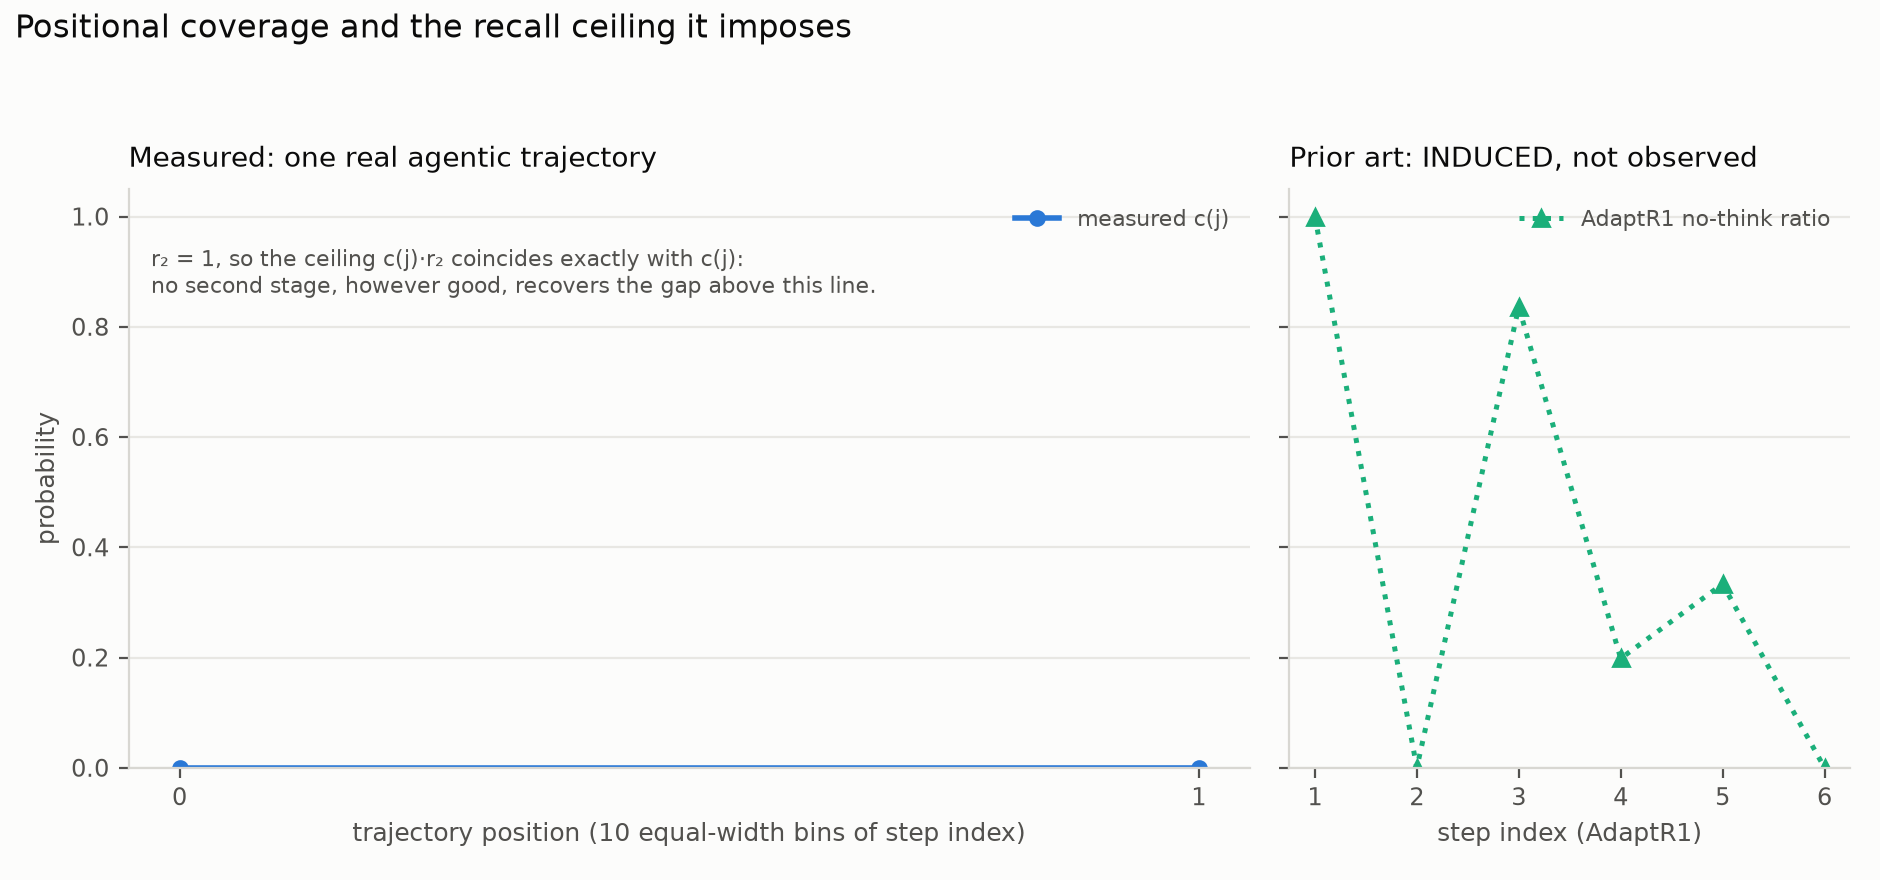
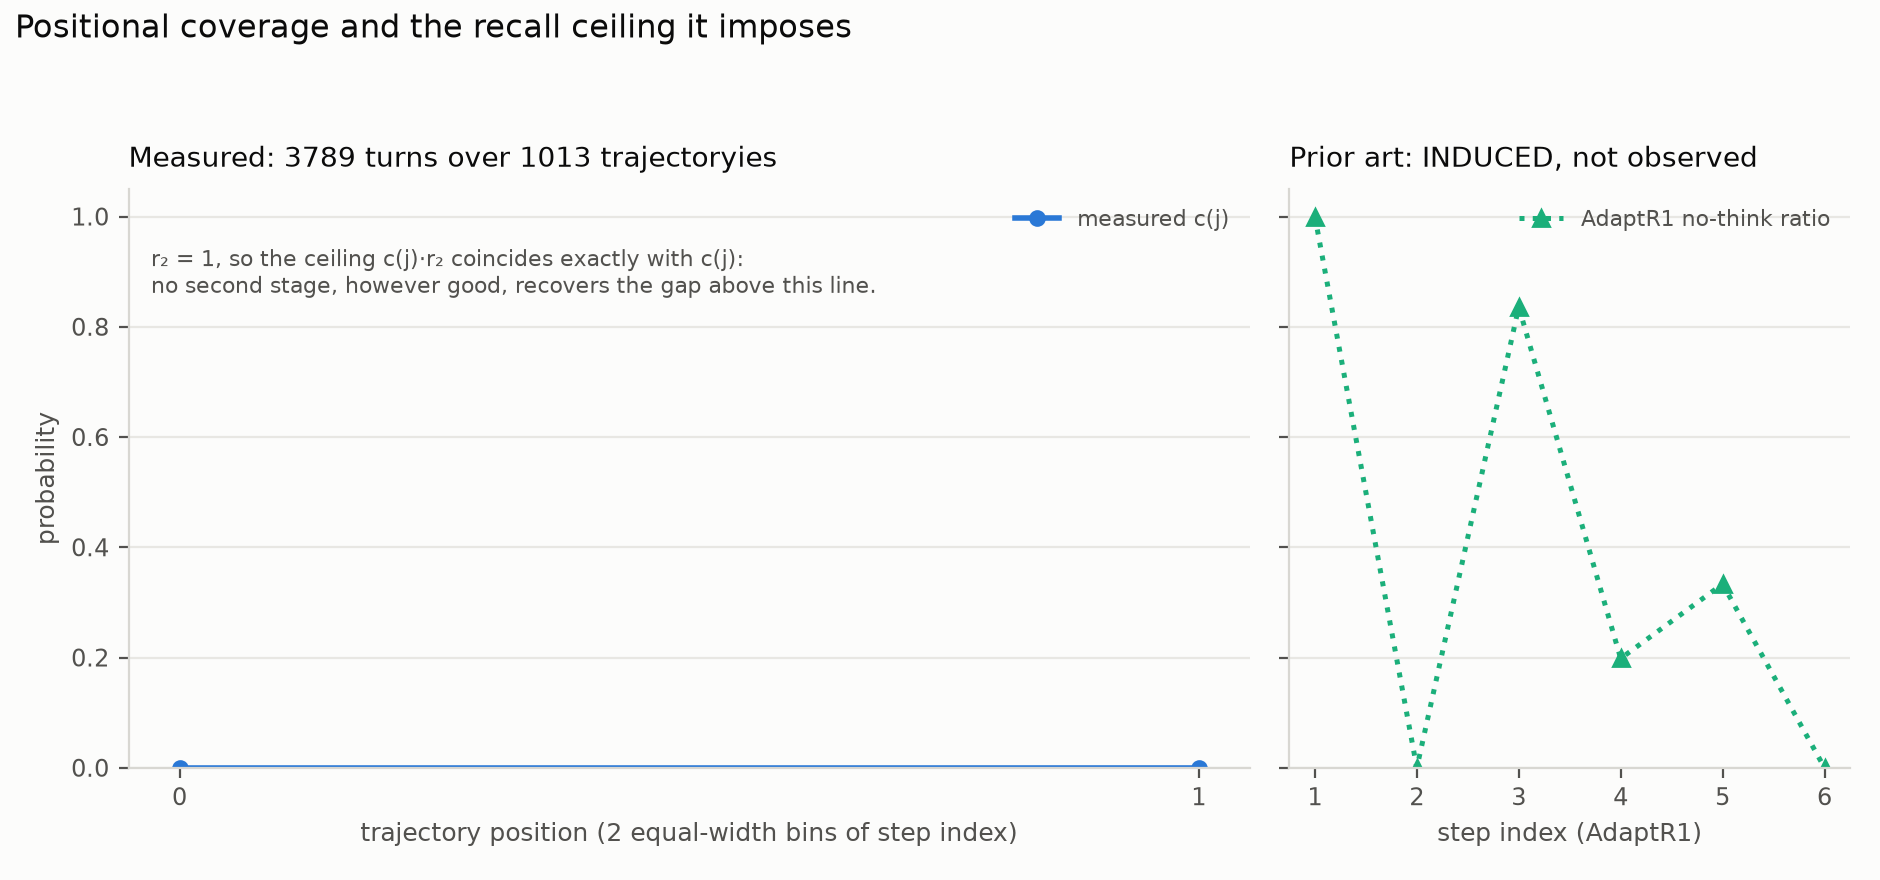
figures: captions written beside each figure, honest panel labels
Three fixes, all found by looking at the rendered images rather than trusting
the code:
- The CLI discarded the caption text figure_one/figure_two return, so the
  committed captions described an earlier Mythos-only run. A committed figure
  whose caption states an n the image does not show is worse than no caption.
  Captions are now written next to each figure and regenerate with it.
- Figure 1's x ticks collided (full provider-qualified model ids). Shortened
  for display only; the record keeps the full id.
- Figure 2's left panel was hardcoded 'one real agentic trajectory' and its
  axis claimed 10 bins regardless of how many exist. Both are now derived:
  the Inspect panel reads '3789 turns over 3039 trajectories' over 2 bins,
  the Mythos panel '2061 turns over 1 trajectory' over 10.

159 tests, 89% coverage, ruff and mypy clean. Both records schema-valid.

Changed region(s): [[0.1851, 0.9205, 0.5553, 0.9818], [0.1543, 0.1534, 0.4011, 0.2148]]

diff --git a/src/channels/cli.py b/src/channels/cli.py
@@ -161,9 +161,11 @@ def _run_measure(args: argparse.Namespace) -> int:
 
     # Figure 1 spans every corpus: each bar is one model x task class, so no bar
     # mixes corpora and the comparison it invites is the intended one.
-    figure_one(
-        build_cells(observations),
-        results / "figures" / "figure1_emission_states.png",
+    _write_figure_caption(
+        *figure_one(
+            build_cells(observations),
+            results / "figures" / "figure1_emission_states.png",
+        )
     )
 
     groups, _ = _corpora(args)
@@ -173,6 +175,17 @@ def _run_measure(args: argparse.Namespace) -> int:
     for name in missing:
         print(f"NOT AVAILABLE: {name}")
     return 0
+
+
+def _write_figure_caption(figure_path: Path, caption: str) -> None:
+    """Write a figure's caption next to it, so the two can never drift apart.
+
+    A committed figure whose caption describes an earlier run is worse than no
+    caption: it states an n that the image does not show.
+    """
+    figure_path.with_name(f"{figure_path.stem}_caption.txt").write_text(
+        caption + "\n", encoding="utf-8"
+    )
 
 
 def _measure_one_corpus(
@@ -186,11 +199,26 @@ def _measure_one_corpus(
     results = args.results
     suffix = "" if description.name == "inspect_logs" else f"_{description.name}"
 
-    figure_two(
-        binned,
-        results / "figures" / f"figure2_recall_ceiling{suffix}.png",
-        stage2_recall=args.stage2_recall,
-        step_label=f"trajectory position ({args.bins} equal-width bins of step index)",
+    # The axis must state the bins that actually exist, not the bins requested:
+    # a corpus whose trajectories are two turns long yields two, not `--bins`.
+    n_positions = len(binned)
+    n_trajectories = len({obs.sample_id for obs in observations})
+    step_label = (
+        f"trajectory position ({n_positions} equal-width bins of step index)"
+    )
+    panel_title = (
+        f"Measured: {description.n_utterances} turns over "
+        f"{n_trajectories} trajectory" + ("" if n_trajectories == 1 else "ies")
+    )
+
+    _write_figure_caption(
+        *figure_two(
+            binned,
+            results / "figures" / f"figure2_recall_ceiling{suffix}.png",
+            stage2_recall=args.stage2_recall,
+            step_label=step_label,
+            panel_title=panel_title,
+        )
     )
 
     record = build_record(

diff --git a/src/channels/figures.py b/src/channels/figures.py
@@ -82,7 +82,7 @@ def figure_one(
     figure.patch.set_facecolor(SURFACE)
     axes.set_facecolor(SURFACE)
 
-    labels = [f"{model}\n{task}" for model, task in plotted]
+    labels = [f"{_display_model(model)}\n{task}" for model, task in plotted]
     bottoms = [0.0] * len(plotted)
     for state in ReasoningState:
         heights = [_share_of(group, state) for group in plotted.values()]
@@ -126,6 +126,7 @@ def figure_two(
     out_path: Path,
     stage2_recall: float = 1.0,
     step_label: str = "step index",
+    panel_title: str = "Measured",
 ) -> tuple[Path, str]:
     """Positional coverage c(j) and its ceiling, beside the induced prior art.
 
@@ -160,7 +161,7 @@ def figure_two(
     left.set_xticks(list(steps))
     left.legend(frameon=False, fontsize=8, labelcolor=TEXT_SECONDARY, loc="upper right")
     left.set_title(
-        "Measured: one real agentic trajectory",
+        panel_title,
         color=TEXT_PRIMARY, fontsize=10, loc="left", pad=8,
     )
 
@@ -317,6 +318,16 @@ def _pooled_rate(group: Sequence[EmissionCell]) -> RateWithCI:
         n_clusters=max((c.n_clusters or 0) for c in group) or None,
     )
     return cell_rate(merged)
+
+
+def _display_model(model: str) -> str:
+    """Shorten a provider-qualified model id for an axis tick.
+
+    The record keeps the full id; only the tick is shortened, because colliding
+    tick labels make a committed figure unreadable and an unreadable figure
+    cannot be checked by a reader.
+    """
+    return model.split("/")[-1]
 
 
 def _caption_one(
